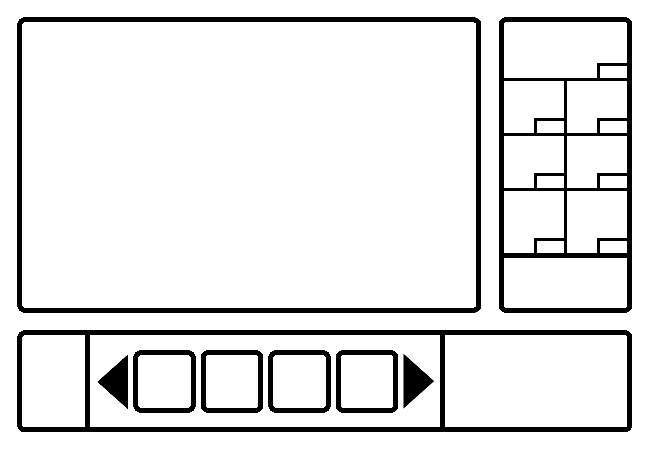
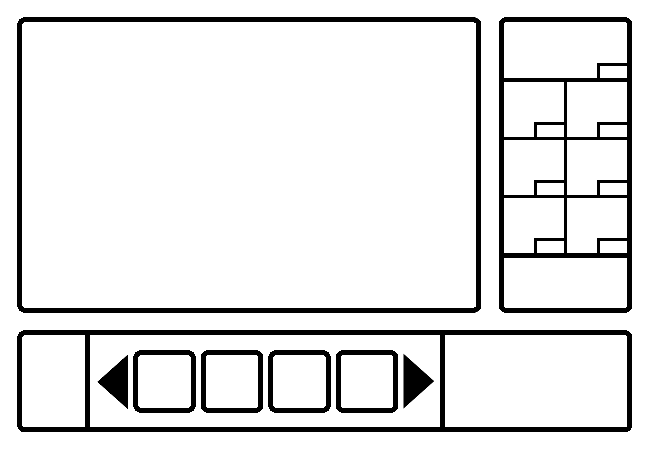
pics

Changed region(s): [[0.7692, 0.3733, 0.9846, 0.4667], [0.7692, 0.2489, 0.9846, 0.3111]]

diff --git a/src/graphics/Panel.java b/src/graphics/Panel.java
@@ -37,9 +37,15 @@ public abstract class Panel extends JPanel implements Playable {
 		setPreferredSize(new Dimension(width, height));
 		tetroTypes = level.getTetroTypes();
 		tetroDrawPositions = new ArrayList<>();
-		for (int i = 0; i < tetroTypes.size(); i++) {
-			tetroDrawPositions.add(new Point(1050, i * 100 + 72));
-		}
+		
+			tetroDrawPositions.add(new Point(1070, 72));
+			tetroDrawPositions.add(new Point(1025,   175));
+			tetroDrawPositions.add(new Point(1145,   175));
+			tetroDrawPositions.add(new Point(1025,   290));
+			tetroDrawPositions.add(new Point(1145,   290));
+			tetroDrawPositions.add(new Point(1025,   406));
+			tetroDrawPositions.add(new Point(1165,   406));
+		
 	}
 
 	@Override

diff --git a/src/graphics/GameWorldPanel.java b/src/graphics/GameWorldPanel.java
@@ -57,6 +57,8 @@ public class GameWorldPanel extends Panel {
 		for (int i = 0; i < tetroTypes.size(); i++) {
 			tetroTypes.get(i).draw(g, tetroDrawPositions.get(i).x, tetroDrawPositions.get(i).y, 30, 0);
 		}
+		
+		
 		if (debugMode) {
 			drawDebug(gameGraphics);
 		}

diff --git a/src/logics/worlds/World.java b/src/logics/worlds/World.java
@@ -141,6 +141,7 @@ public abstract class World {
 	}
 
 	public void draw(Graphics g, float interpolation, boolean debugMode) {
+		
 		GameLoop.acutualframes++;
 		camera.prepareDraw(interpolation);
 		// 2D-Rendering background
